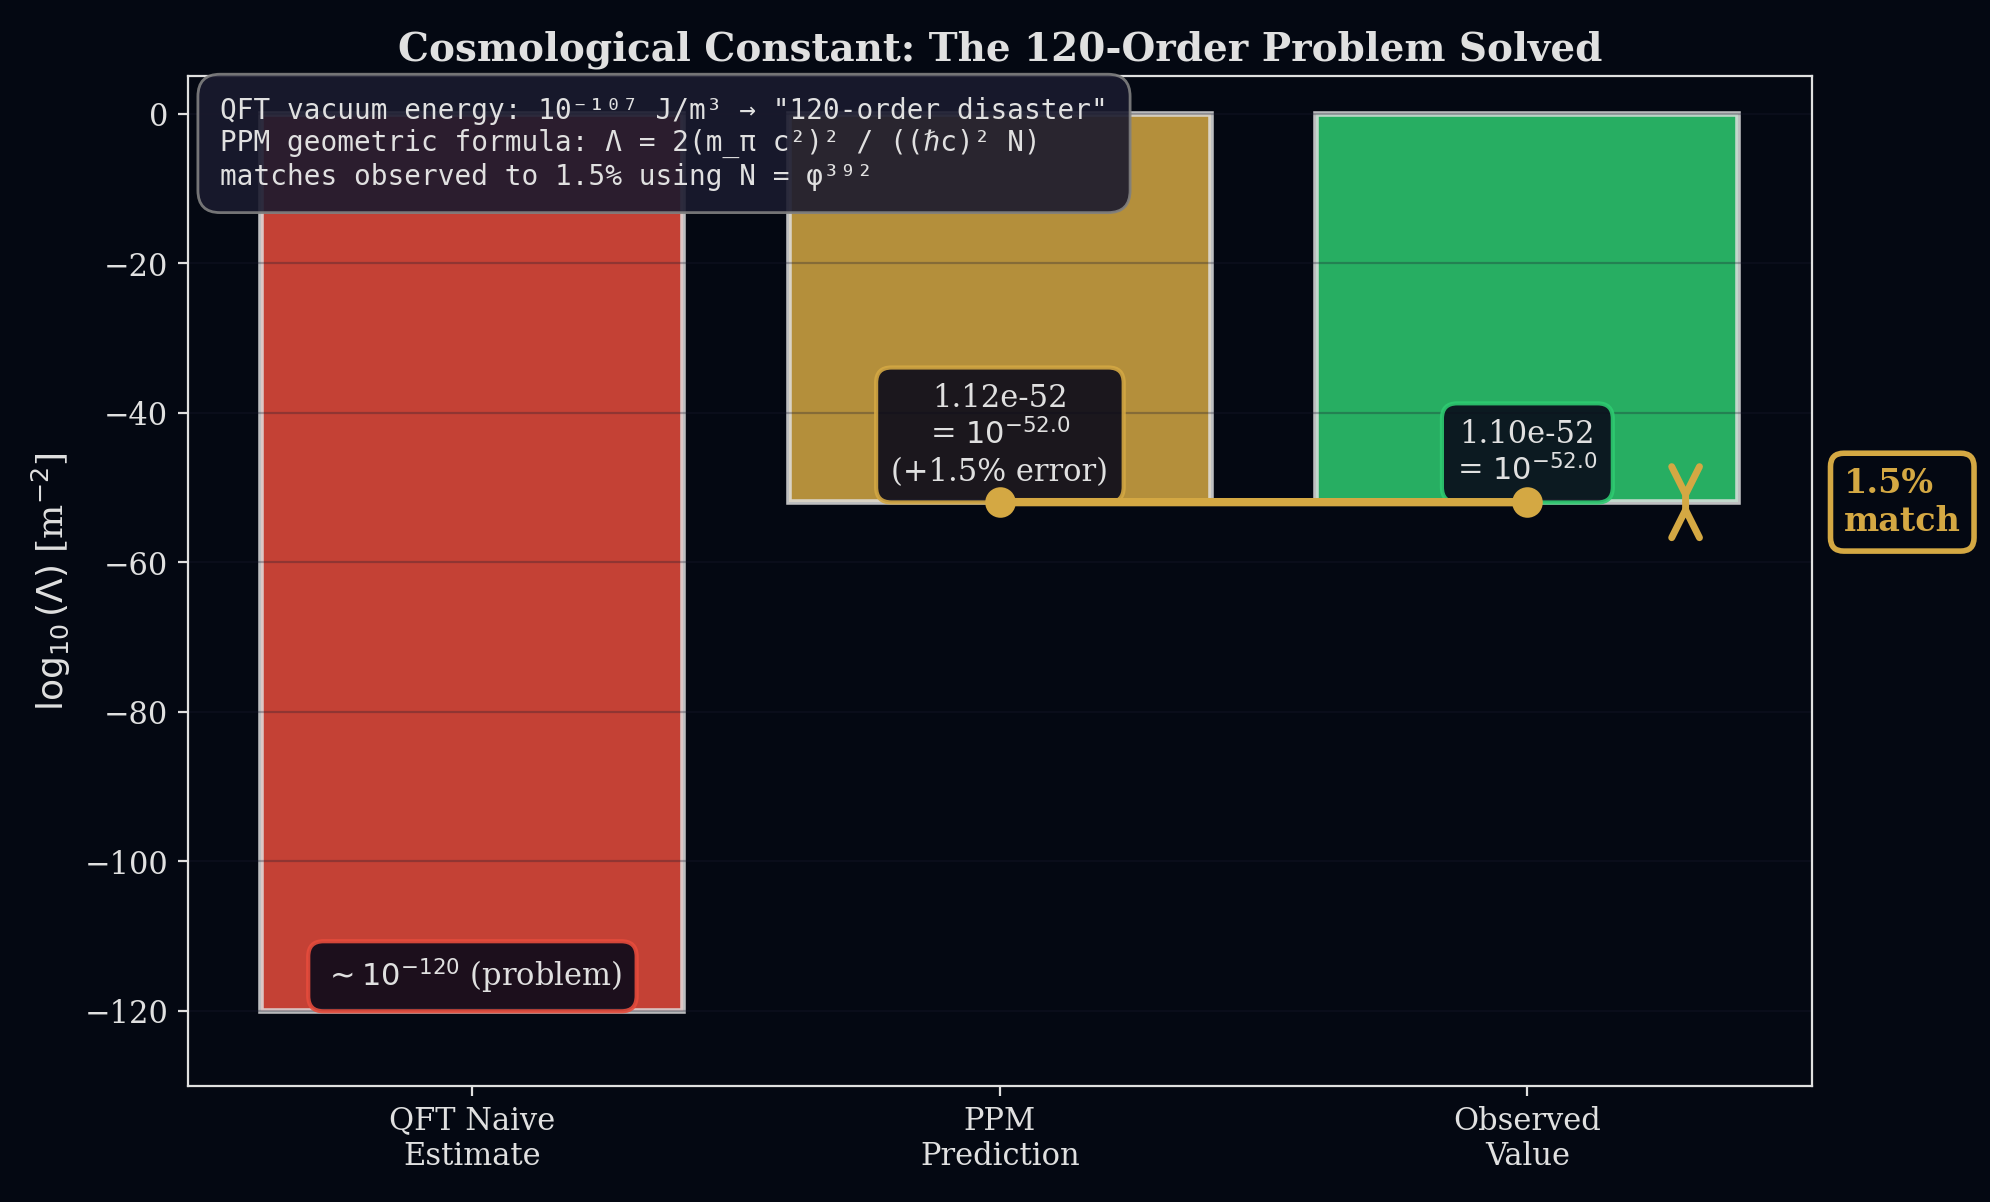
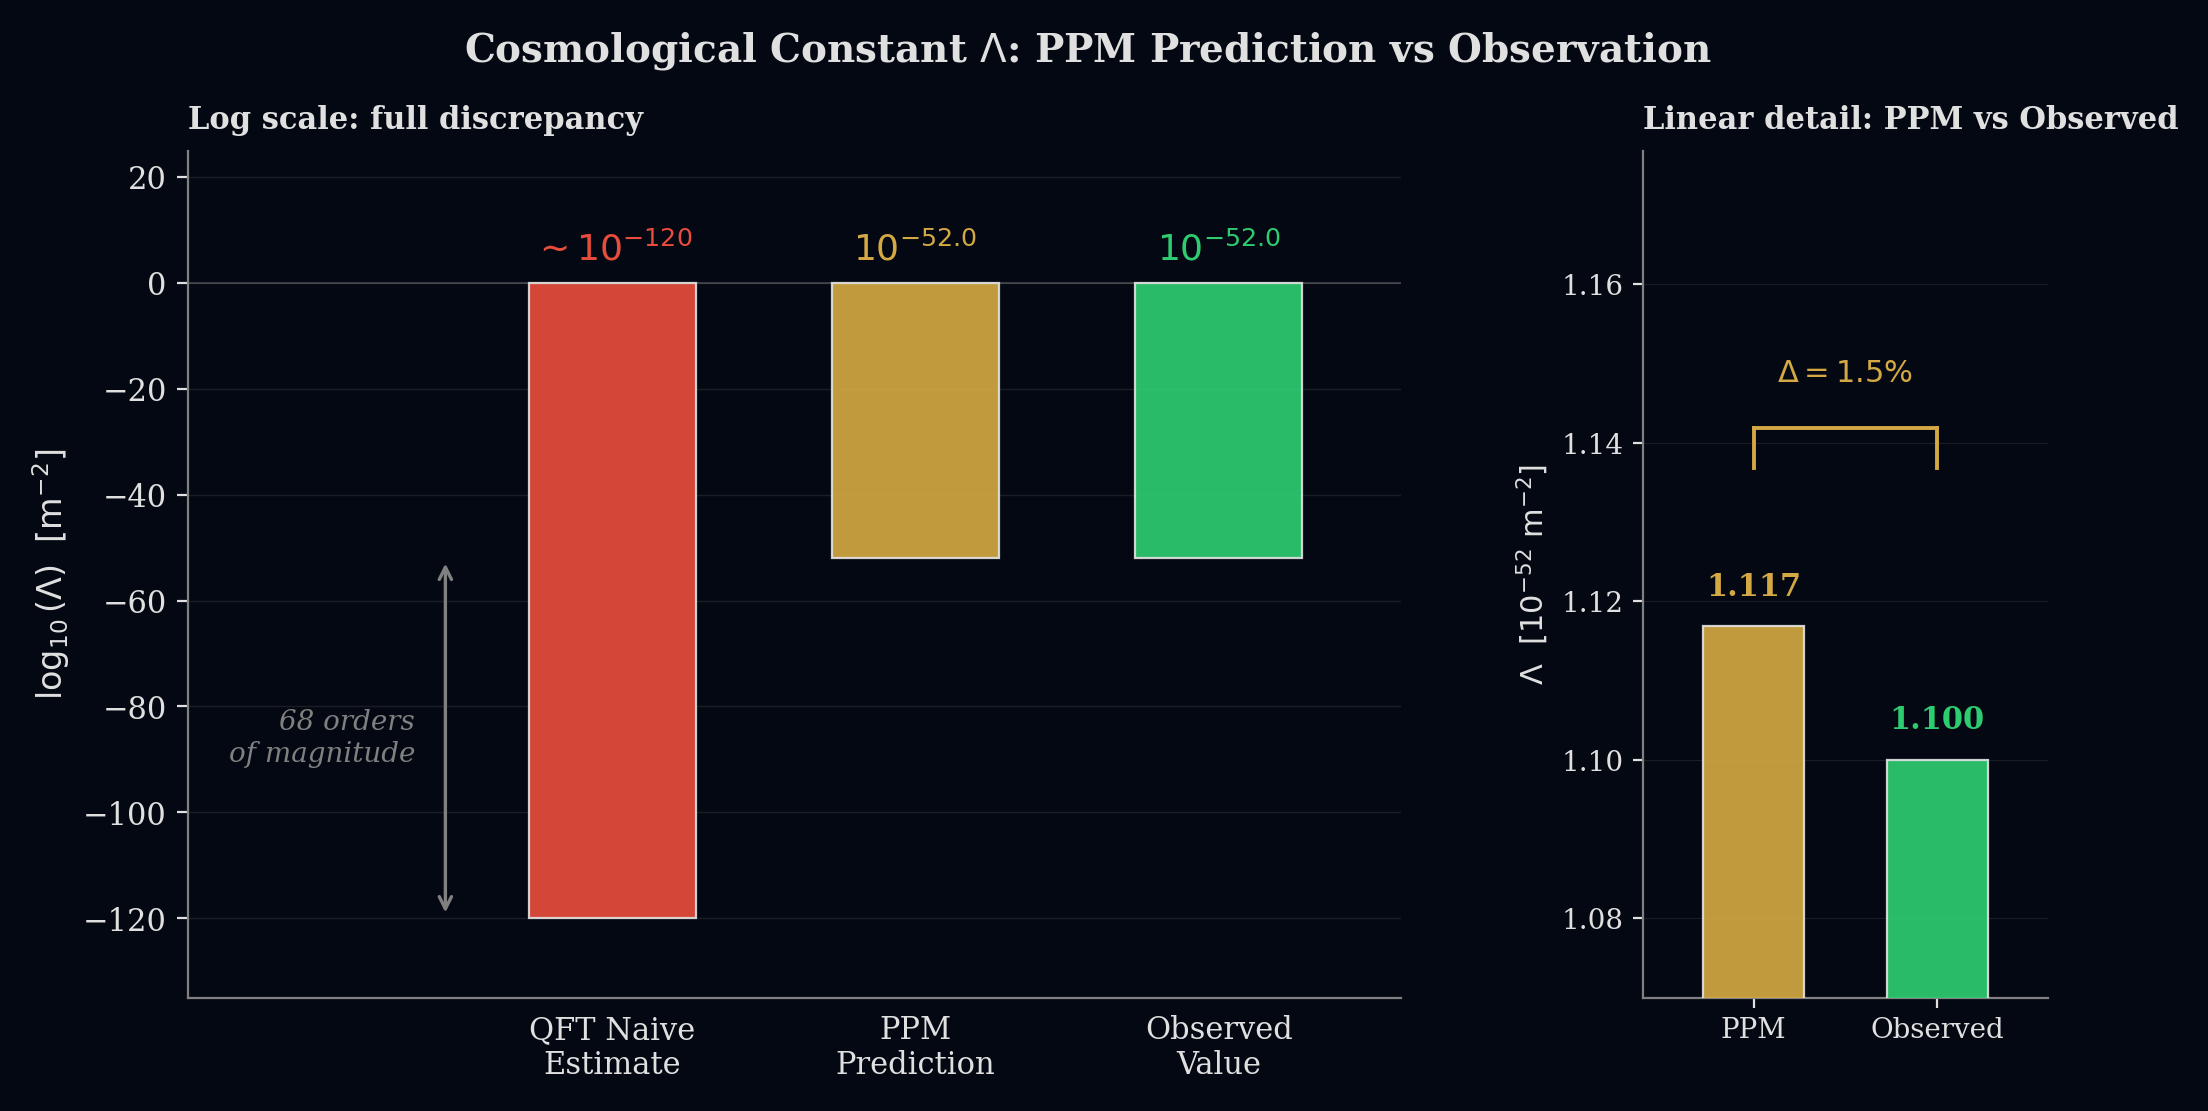
updates

diff --git a/figures/v2_lambda_comparison.py b/figures/v2_lambda_comparison.py
@@ -1,97 +1,172 @@
 """
-v2_lambda_comparison.py — Cosmological constant: the 120-order problem solved (FIXED)
+v2_lambda_comparison.py — Cosmological constant: prediction versus observation
 
-Bar chart showing QFT naive estimate, PPM prediction, and observed value.
-FIXED: Match annotation moved to the right of the bars, not overlapping the connecting line.
+Two-panel layout:
+  Left  : log-scale bar chart showing the 68-order gap between QFT naive and
+          observed; PPM prediction sits on top of observed at this resolution.
+  Right : linear-scale detail panel zooming in on PPM vs Observed to show the
+          actual ~1.5% numerical difference honestly.
 """
 
 import sys
 sys.path.insert(0, '../')
 
 import matplotlib.pyplot as plt
-from matplotlib.patches import Rectangle
+from matplotlib.gridspec import GridSpec
 import numpy as np
 from _style import apply_style, save, GOLD, RED, GREEN, WHITE, GRAY, BG
 
-# Import PPM
 from ppm.cosmology import cosmological_constant
 
 apply_style()
 
-fig, ax = plt.subplots(figsize=(10, 6))
-
-# Get PPM prediction
+# ─── Data ───────────────────────────────────────────────────────────────────
 lam_result = cosmological_constant()
 lambda_ppm = lam_result['Lambda_m2']
 lambda_obs = lam_result['Lambda_obs']
-error_pct = lam_result['error_pct']
+error_pct  = lam_result['error_pct']
 
-# ─── Preparation for visualization ──────────────────────────────────────
-# The "120-order problem": QFT vacuum energy estimate gives ~10^{-120}
-# in Planck units when compared to observational value.
-# Show the problem and PPM's solution.
+# ─── Figure: 2-panel layout (main on left, detail on right) ─────────────────
+fig = plt.figure(figsize=(12, 5.5))
+gs  = GridSpec(1, 2, width_ratios=[3.0, 1.0], wspace=0.30, figure=fig)
+ax  = fig.add_subplot(gs[0, 0])
+axd = fig.add_subplot(gs[0, 1])
 
-# Values in m^{-2}
-scenarios = [
-    'QFT Naive\nEstimate',
-    'PPM\nPrediction',
-    'Observed\nValue'
+# ============================================================================
+# LEFT PANEL: log-scale comparison (3 bars)
+# ============================================================================
+scenarios = ['QFT Naive\nEstimate', 'PPM\nPrediction', 'Observed\nValue']
+values    = [-120.0, np.log10(lambda_ppm), np.log10(lambda_obs)]
+colors    = [RED, GOLD, GREEN]
+
+value_strs = [
+    r'$\sim 10^{-120}$',
+    rf'$10^{{{values[1]:.1f}}}$',
+    rf'$10^{{{values[2]:.1f}}}$',
 ]
 
-# For visualization, we show:
-# 1. QFT gives huge disagreement (conventionally stated as 120 orders)
-# 2. PPM gives 1.12e-52
-# 3. Observed is 1.1e-52
-
-values_log10 = [
-    -120,              # QFT naive (conceptually, the "problem")
-    np.log10(lambda_ppm),  # PPM
-    np.log10(lambda_obs)   # Observed
-]
-
-colors = [RED, GOLD, GREEN]
-bars = ax.bar(scenarios, values_log10, color=colors, alpha=0.85, edgecolor=WHITE, linewidth=2)
-
-# Add value labels on bars
-for i, (bar, val) in enumerate(zip(bars, values_log10)):
-    height = bar.get_height()
-    if i == 0:
-        label_text = r'$\sim 10^{-120}$ (problem)'
-    elif i == 1:
-        label_text = f'{lambda_ppm:.2e}\n= $10^{{{val:.1f}}}$\n({error_pct:+.1f}% error)'
-    else:
-        label_text = f'{lambda_obs:.2e}\n= $10^{{{val:.1f}}}$'
-
-    ax.text(bar.get_x() + bar.get_width()/2, height + 2,
-            label_text,
-            ha='center', va='bottom', fontsize=11, color=WHITE,
-            bbox=dict(boxstyle='round,pad=0.5', facecolor='#0a0a1a',
-                     edgecolor=colors[i], alpha=0.9, linewidth=1.5))
-
-# Highlight the agreement — moved to the right side (x=2.5)
-ax.plot([1, 2], [values_log10[1], values_log10[2]], 'o-', color=GOLD, linewidth=3, markersize=10, zorder=10)
-# Place the match annotation to the RIGHT of the bars, with arrow pointing to the gap
-ax.annotate('', xy=(2.3, values_log10[1]), xytext=(2.3, values_log10[2]),
-            arrowprops=dict(arrowstyle='<->', color=GOLD, lw=2.5, mutation_scale=25))
-ax.text(2.6, (values_log10[1] + values_log10[2])/2, '1.5%\nmatch',
-        fontsize=12, ha='left', va='center', color=GOLD, weight='bold',
-        bbox=dict(boxstyle='round,pad=0.4', facecolor=BG, edgecolor=GOLD, linewidth=2))
-
-ax.set_ylabel(r'$\log_{10}(\Lambda)$ [m$^{-2}$]', fontsize=13, color=WHITE)
-ax.set_title('Cosmological Constant: The 120-Order Problem Solved', fontsize=14, color=WHITE, weight='bold')
-ax.grid(True, axis='y', alpha=0.3, color='#1a1a2e')
-ax.set_ylim(-130, 5)
-
-# Add explanatory text box
-explanation = (
-    'QFT vacuum energy: 10⁻¹⁰⁷ J/m³ → "120-order disaster"\n'
-    'PPM geometric formula: Λ = 2(m_π c²)² / ((ℏc)² N)\n'
-    'matches observed to 1.5% using N = φ³⁹²'
+x_pos = np.arange(len(scenarios))
+ax.bar(
+    x_pos, values, width=0.55, color=colors,
+    alpha=0.92, edgecolor=WHITE, linewidth=0.8, zorder=3,
 )
-ax.text(0.02, 0.98, explanation, transform=ax.transAxes,
-        fontsize=10, verticalalignment='top',
-        bbox=dict(boxstyle='round', facecolor='#1a1a2e', edgecolor=GRAY, alpha=0.9, pad=0.8),
-        color=WHITE, family='monospace')
 
-plt.tight_layout()
+# Value labels above each bar
+for x, v, txt, c in zip(x_pos, values, value_strs, colors):
+    ax.text(
+        x, 3, txt,
+        ha='center', va='bottom',
+        fontsize=13, color=c, weight='bold',
+        zorder=4,
+    )
+
+# Vertical "68 orders of magnitude" annotation on the left
+gap   = abs(values[0] - values[2])
+gap_x = -0.55
+ax.annotate(
+    '', xy=(gap_x, values[0]), xytext=(gap_x, values[2]),
+    arrowprops=dict(arrowstyle='<->', color=GRAY, lw=1.2),
+    zorder=4,
+)
+ax.text(
+    gap_x - 0.10, (values[0] + values[2]) / 2,
+    f'{int(round(gap))} orders\nof magnitude',
+    ha='right', va='center',
+    fontsize=10, color=GRAY, style='italic',
+    zorder=5,
+)
+
+# Axes
+ax.set_ylabel(r'$\log_{10}(\Lambda)\ \ [\mathrm{m}^{-2}]$',
+              fontsize=12, color=WHITE)
+ax.set_xticks(x_pos)
+ax.set_xticklabels(scenarios, fontsize=11, color=WHITE)
+ax.tick_params(axis='x', length=0, pad=6)
+ax.tick_params(axis='y', length=4)
+ax.set_ylim(-135, 25)
+ax.set_xlim(-1.4, len(scenarios) - 0.4)
+ax.axhline(0, color=GRAY, lw=0.6, alpha=0.5, zorder=2)
+ax.grid(True, axis='y', alpha=0.18, color=GRAY, lw=0.5, zorder=1)
+for spine in ('top', 'right'):
+    ax.spines[spine].set_visible(False)
+ax.spines['left'].set_color(GRAY);   ax.spines['left'].set_linewidth(0.8)
+ax.spines['bottom'].set_color(GRAY); ax.spines['bottom'].set_linewidth(0.8)
+ax.set_title(
+    'Log scale: full discrepancy',
+    fontsize=11, color=WHITE, weight='bold', pad=8, loc='left',
+)
+
+# ============================================================================
+# RIGHT PANEL: linear-scale detail
+# ============================================================================
+detail_labels = ['PPM', 'Observed']
+detail_values = [lambda_ppm * 1e52, lambda_obs * 1e52]   # in units of 10^-52
+detail_colors = [GOLD, GREEN]
+detail_x      = np.arange(len(detail_labels))
+
+axd.bar(
+    detail_x, detail_values, width=0.55, color=detail_colors,
+    alpha=0.92, edgecolor=WHITE, linewidth=0.8, zorder=3,
+)
+axd.set_xticks(detail_x)
+axd.set_xticklabels(detail_labels, fontsize=11, color=WHITE)
+
+# Numeric labels above each bar
+for x, v, c in zip(detail_x, detail_values, detail_colors):
+    axd.text(
+        x, v + 0.003, f'{v:.3f}',
+        ha='center', va='bottom',
+        fontsize=11, color=c, weight='bold',
+    )
+
+# Bracket showing the 1.5% delta between the two
+y_min = min(detail_values)
+y_max = max(detail_values)
+bracket_y = y_max + 0.025
+ax_bracket_color = GOLD
+axd.plot(
+    [detail_x[0], detail_x[1]], [bracket_y, bracket_y],
+    color=ax_bracket_color, lw=1.4, zorder=4,
+)
+axd.plot(
+    [detail_x[0], detail_x[0]], [bracket_y, bracket_y - 0.005],
+    color=ax_bracket_color, lw=1.4, zorder=4,
+)
+axd.plot(
+    [detail_x[1], detail_x[1]], [bracket_y, bracket_y - 0.005],
+    color=ax_bracket_color, lw=1.4, zorder=4,
+)
+axd.text(
+    (detail_x[0] + detail_x[1]) / 2, bracket_y + 0.005,
+    rf'$\Delta = {abs(error_pct):.1f}\%$',
+    ha='center', va='bottom',
+    fontsize=11, color=ax_bracket_color, weight='bold',
+)
+
+# Tighten range so the small gap is visible
+ymin = min(detail_values) - 0.03
+ymax = max(detail_values) + 0.06
+axd.set_ylim(ymin, ymax)
+axd.set_xlim(-0.6, 1.6)
+
+axd.set_ylabel(r'$\Lambda\ \ [10^{-52}\ \mathrm{m}^{-2}]$',
+               fontsize=11, color=WHITE)
+axd.tick_params(axis='both', labelsize=10, colors=WHITE)
+axd.grid(True, axis='y', alpha=0.18, color=GRAY, lw=0.4, zorder=1)
+for spine in ('top', 'right'):
+    axd.spines[spine].set_visible(False)
+axd.spines['left'].set_color(GRAY);   axd.spines['left'].set_linewidth(0.8)
+axd.spines['bottom'].set_color(GRAY); axd.spines['bottom'].set_linewidth(0.8)
+axd.set_title(
+    'Linear detail: PPM vs Observed',
+    fontsize=11, color=WHITE, weight='bold', pad=8, loc='left',
+)
+
+# ─── Suptitle ───────────────────────────────────────────────────────────────
+fig.suptitle(
+    r'Cosmological Constant $\Lambda$: PPM Prediction vs Observation',
+    fontsize=14, color=WHITE, weight='bold', y=0.99,
+)
+
+plt.tight_layout(rect=(0, 0, 1, 0.95))
 save(fig, 'v2_lambda_comparison.png')
